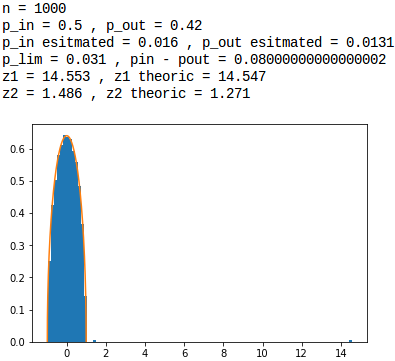
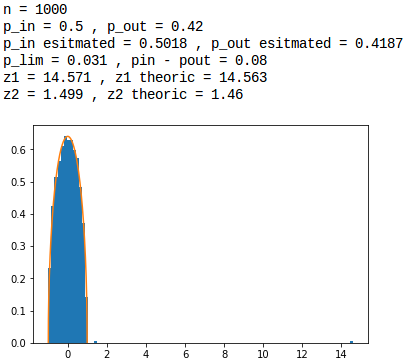
fix p_in & p_out estimated

diff --git a/chapter/simulation.tex b/chapter/simulation.tex
@@ -2,8 +2,8 @@
 \begin{figure}[p]
 	\begin{subfigure}{.5\textwidth}
 		\centering
-		\includegraphics[scale=0.58]{static/spectral_n100_pin08_pout03.png}
-		\caption{$n=100$, $\Delta p=0.5$}
+		\includegraphics[scale=0.58]{static/spectral_n100_pin08_pout02.png}
+		\caption{$n=100$, $\Delta p=0.6$}
 		\label{n100delta05}
 	\end{subfigure}
 	\begin{subfigure}{.5\textwidth}
@@ -20,8 +20,8 @@
 	\end{subfigure}
 	\begin{subfigure}{.5\textwidth}
 		\centering
-		\includegraphics[scale=0.58]{static/spectral_n1000_pin08_pout03.png}
-		\caption{$n=1000$, $\Delta p=0.5$}
+		\includegraphics[scale=0.58]{static/spectral_n1000_pin08_pout02.png}
+		\caption{$n=1000$, $\Delta p=0.6$}
 		\label{n1000delta05}
 	\end{subfigure}
 	\begin{subfigure}{.5\textwidth}
@@ -61,7 +61,7 @@ La terminologie utilisée dans les figures ci-dessous est:
 	\item[- \underline{$z_1\: theoric, \:z_2\: theoric$}:] sont les plus grandes valeurs propres $z_1$ et $z_2$ calculées via les équations \eqref{z_1} et \eqref{z_2} ;    
 	\item[- \underline{$p_{in}\: estimated, \:p_{out}\: estimated$}:] sont les probabilités du SBM calculées a posteriori grâce aux valeurs propres $z_1$ et $z_2$.\\
 \end{itemize}
-Les $p_{in}\: estimated, \:p_{out}\: estimated$ sont calculés via un calcul d'optimisation.\\
+Les $p_{in}\: estimated, \:p_{out}\: estimated$ sont calculés via un calcul d'optimisation dont les conditions initiales sont $p_{in, 0} = 1$ et $p_{out, 0} = 0$.\\
 
 
 La première observation que l'on peut faire est que les valeurs propres de nos matrices d'adjacence sont bien distribuées selon la loi du demi-cercle de Wigner.

diff --git a/chapter/part2/generalisation.tex b/chapter/part2/generalisation.tex
@@ -100,10 +100,10 @@ Donc
 \subsection{Bilan}
 Ci-dessous le bilan de la généralisation:
 \begin{align*}
-	\sigma^2&: \frac{\sigma_{in}^2 + (q-1)\sigma_{out}^2}{q} \\
-	z_1&: \frac{c_{in} - c_{out}}{q\sqrt{n}} + \frac{q\sqrt{n}\sigma^2}{c_{in} - c_{out}}\\
-	z_2&: \frac{c_{in} + (q-1)c_{out}}{q\sqrt{n}} + \frac{q\sqrt{n}\sigma^2}{c_{in} + (q-1)c_{out}}\\
-	p_{lim}&: \frac{\sqrt{q(\sigma_{in}^2 + (q-1)\sigma_{out}^2)}}{\sqrt{n}} \\
+	\sigma^2&= \frac{\sigma_{in}^2 + (q-1)\sigma_{out}^2}{q} \\
+	z_1&= \frac{c_{in} + (q-1)c_{out}}{q\sqrt{n}} + \frac{q\sqrt{n}\sigma^2}{c_{in} + (q-1)c_{out}}\\
+	z_2&= \frac{c_{in} - c_{out}}{q\sqrt{n}} + \frac{q\sqrt{n}\sigma^2}{c_{in} - c_{out}}\\
+	p_{lim}&= \frac{\sqrt{q(\sigma_{in}^2 + (q-1)\sigma_{out}^2)}}{\sqrt{n}} \\
 \end{align*}
 
 % ------------------------------------------------- 6- Simulation -------------------------------------------------
